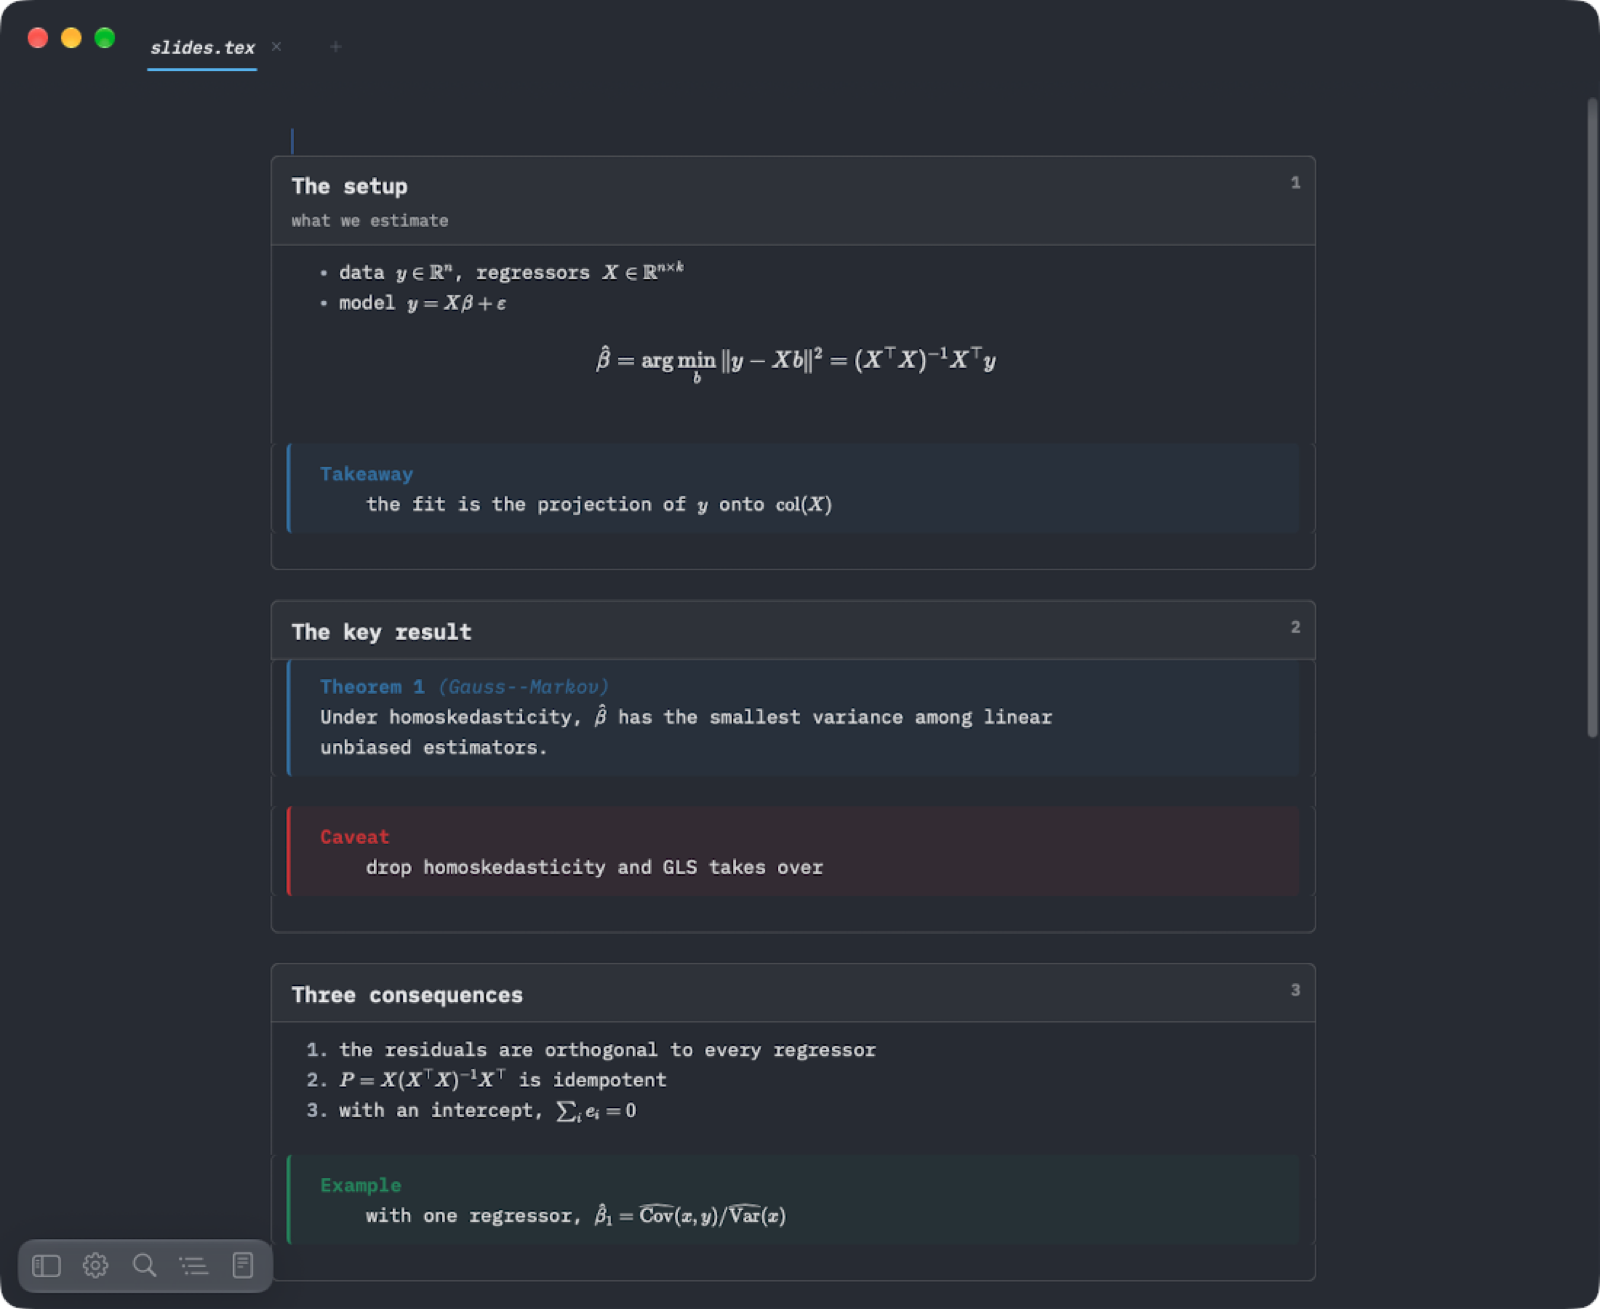
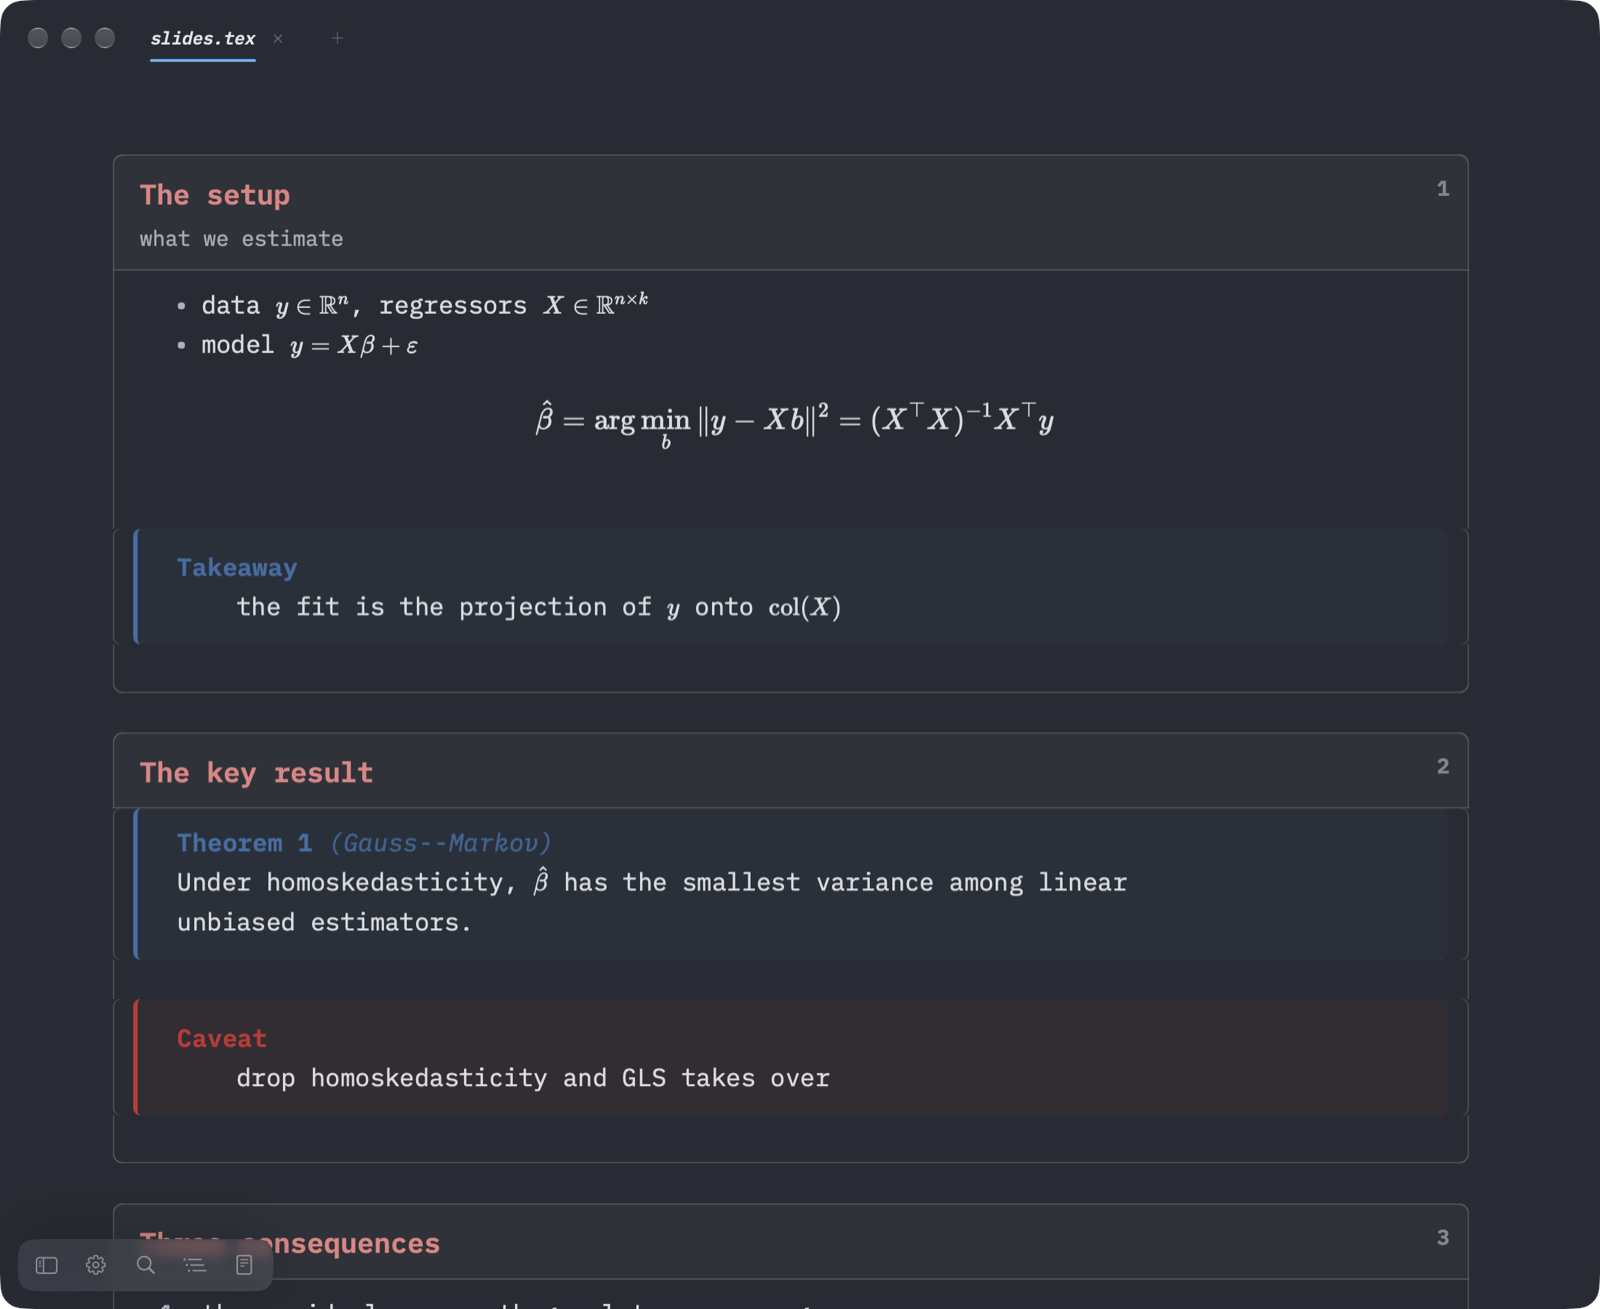
docs: retake the README screenshots and add a light-theme one
capture-mac.sh retook every Mac shot against the current build and gains
mac-light: the LaTeX paper with its outline panel in the light theme, shown
in the README's themes section. A shot can now pass its own
-chalk.themePreference; the default stays dark.

diff --git a/README.md b/README.md
@@ -78,6 +78,8 @@ Headings, lists, tables you edit in place, images (centred when they stand alone
 
 ![The same Markdown note in mixed view](docs/images/mac-mixed.png)
 
+![A LaTeX paper in the light theme, with the outline panel](docs/images/mac-light.png)
+
 ### In VS Code
 
 ![The Chalk editor showing a .tex file inside VS Code](docs/images/vscode.png)
